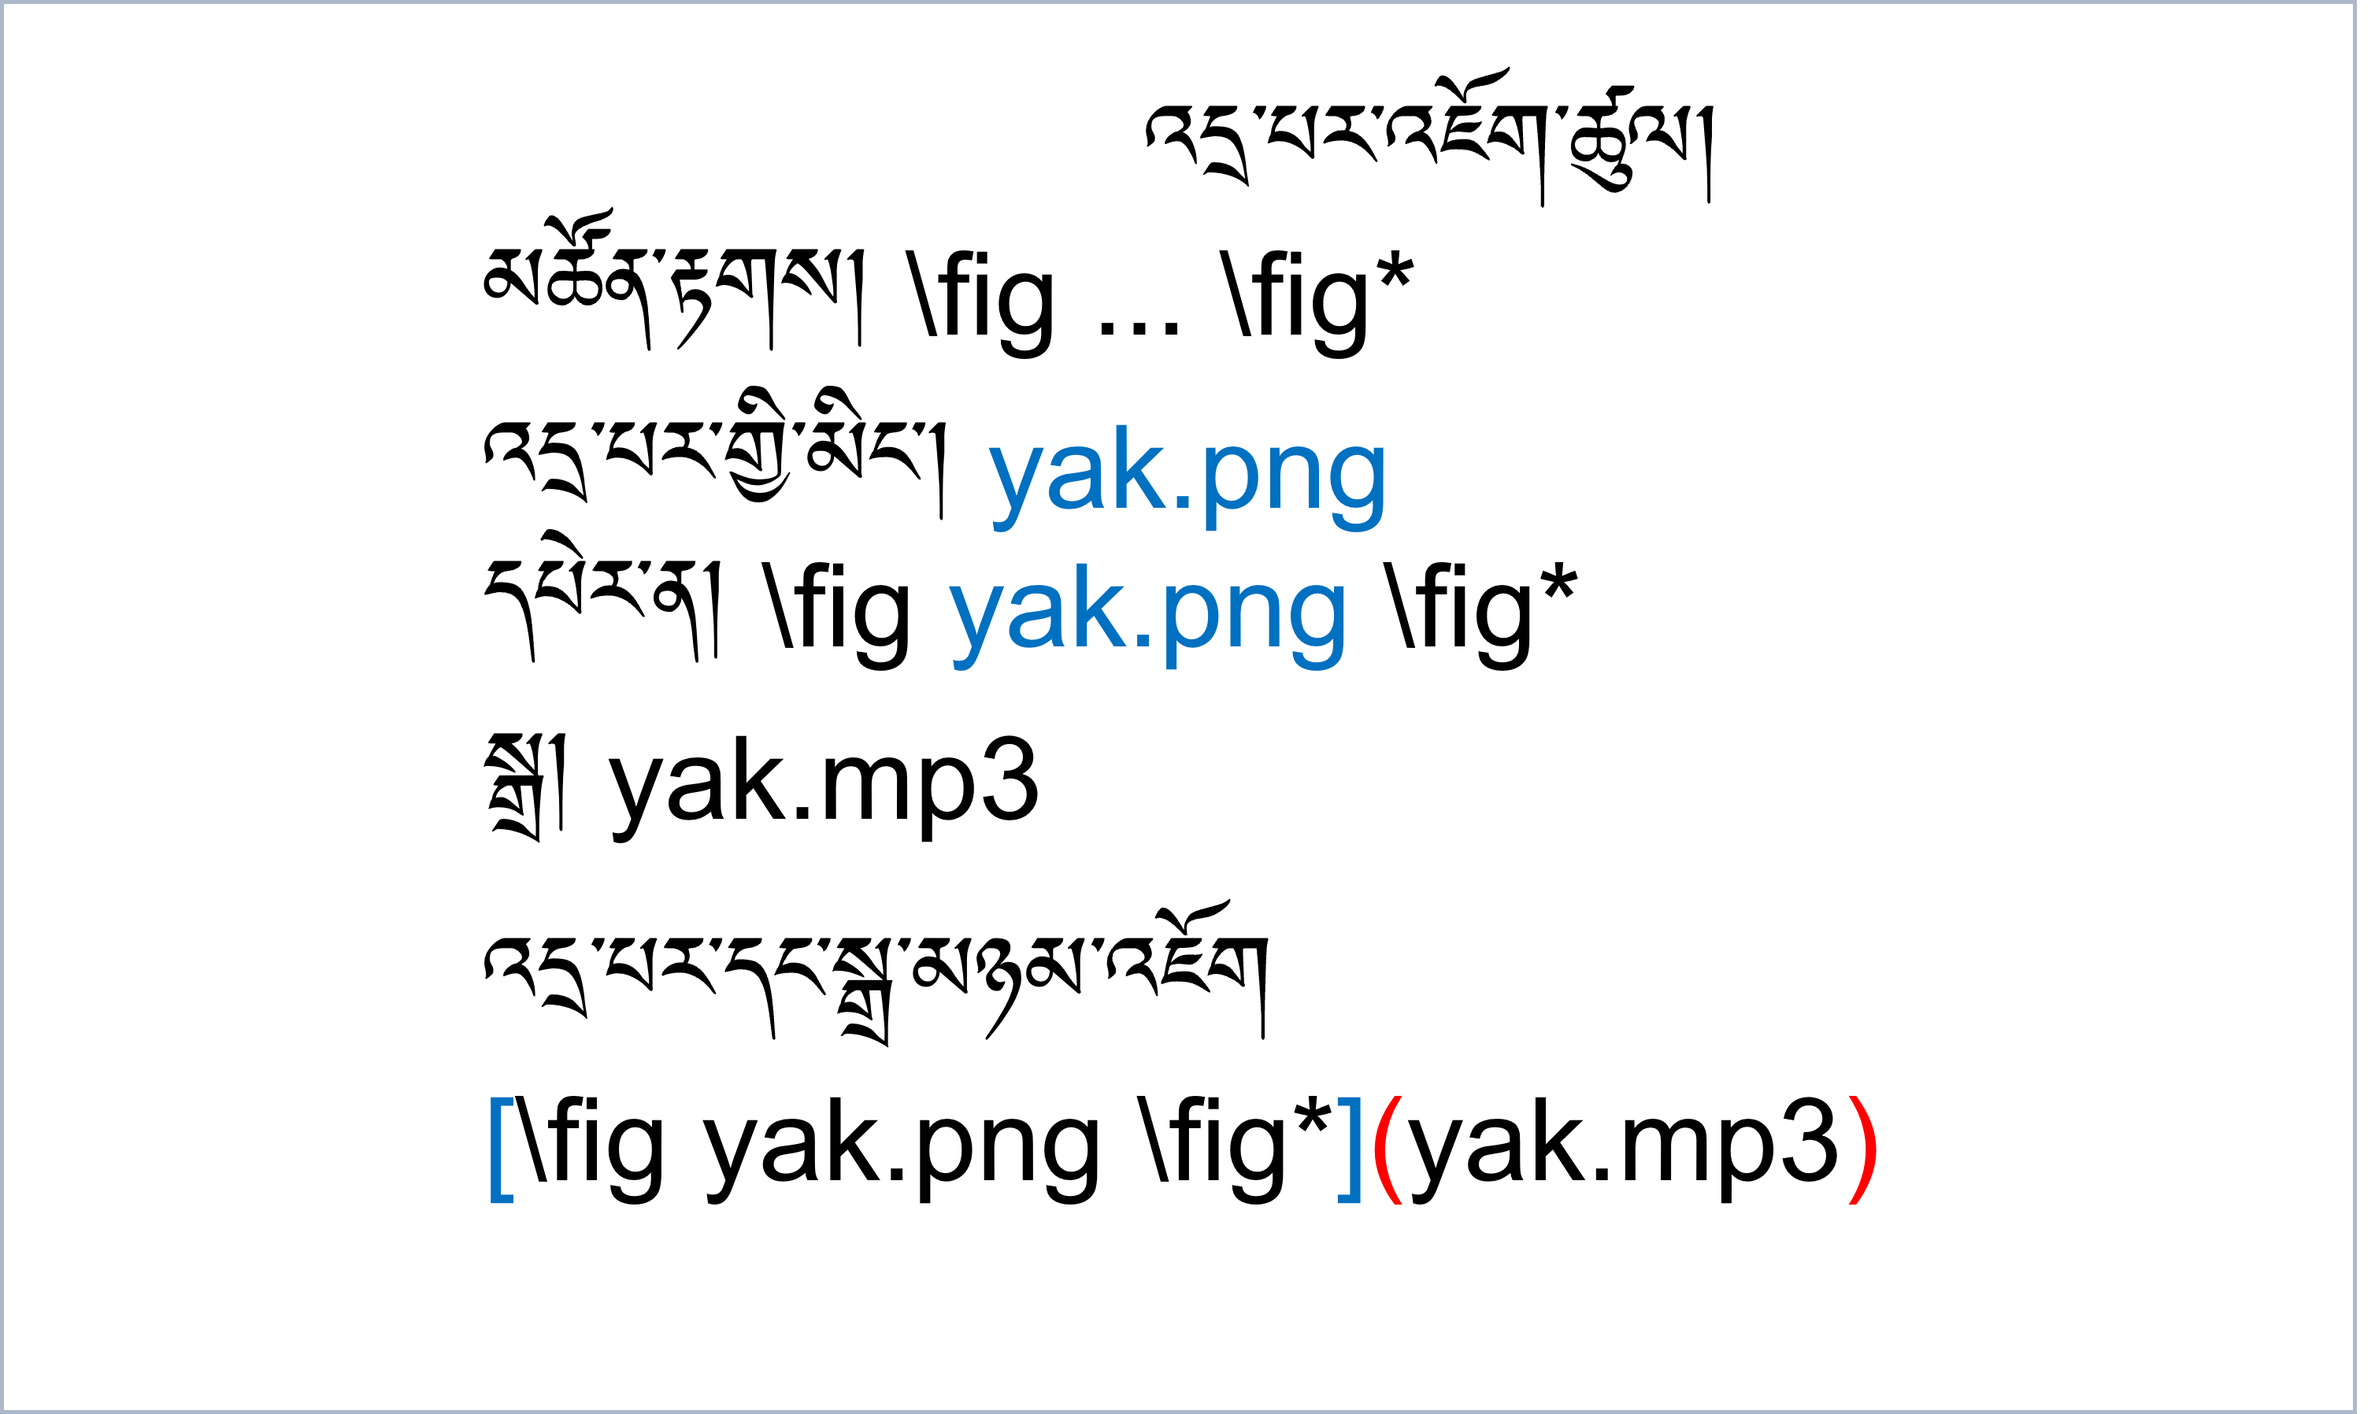
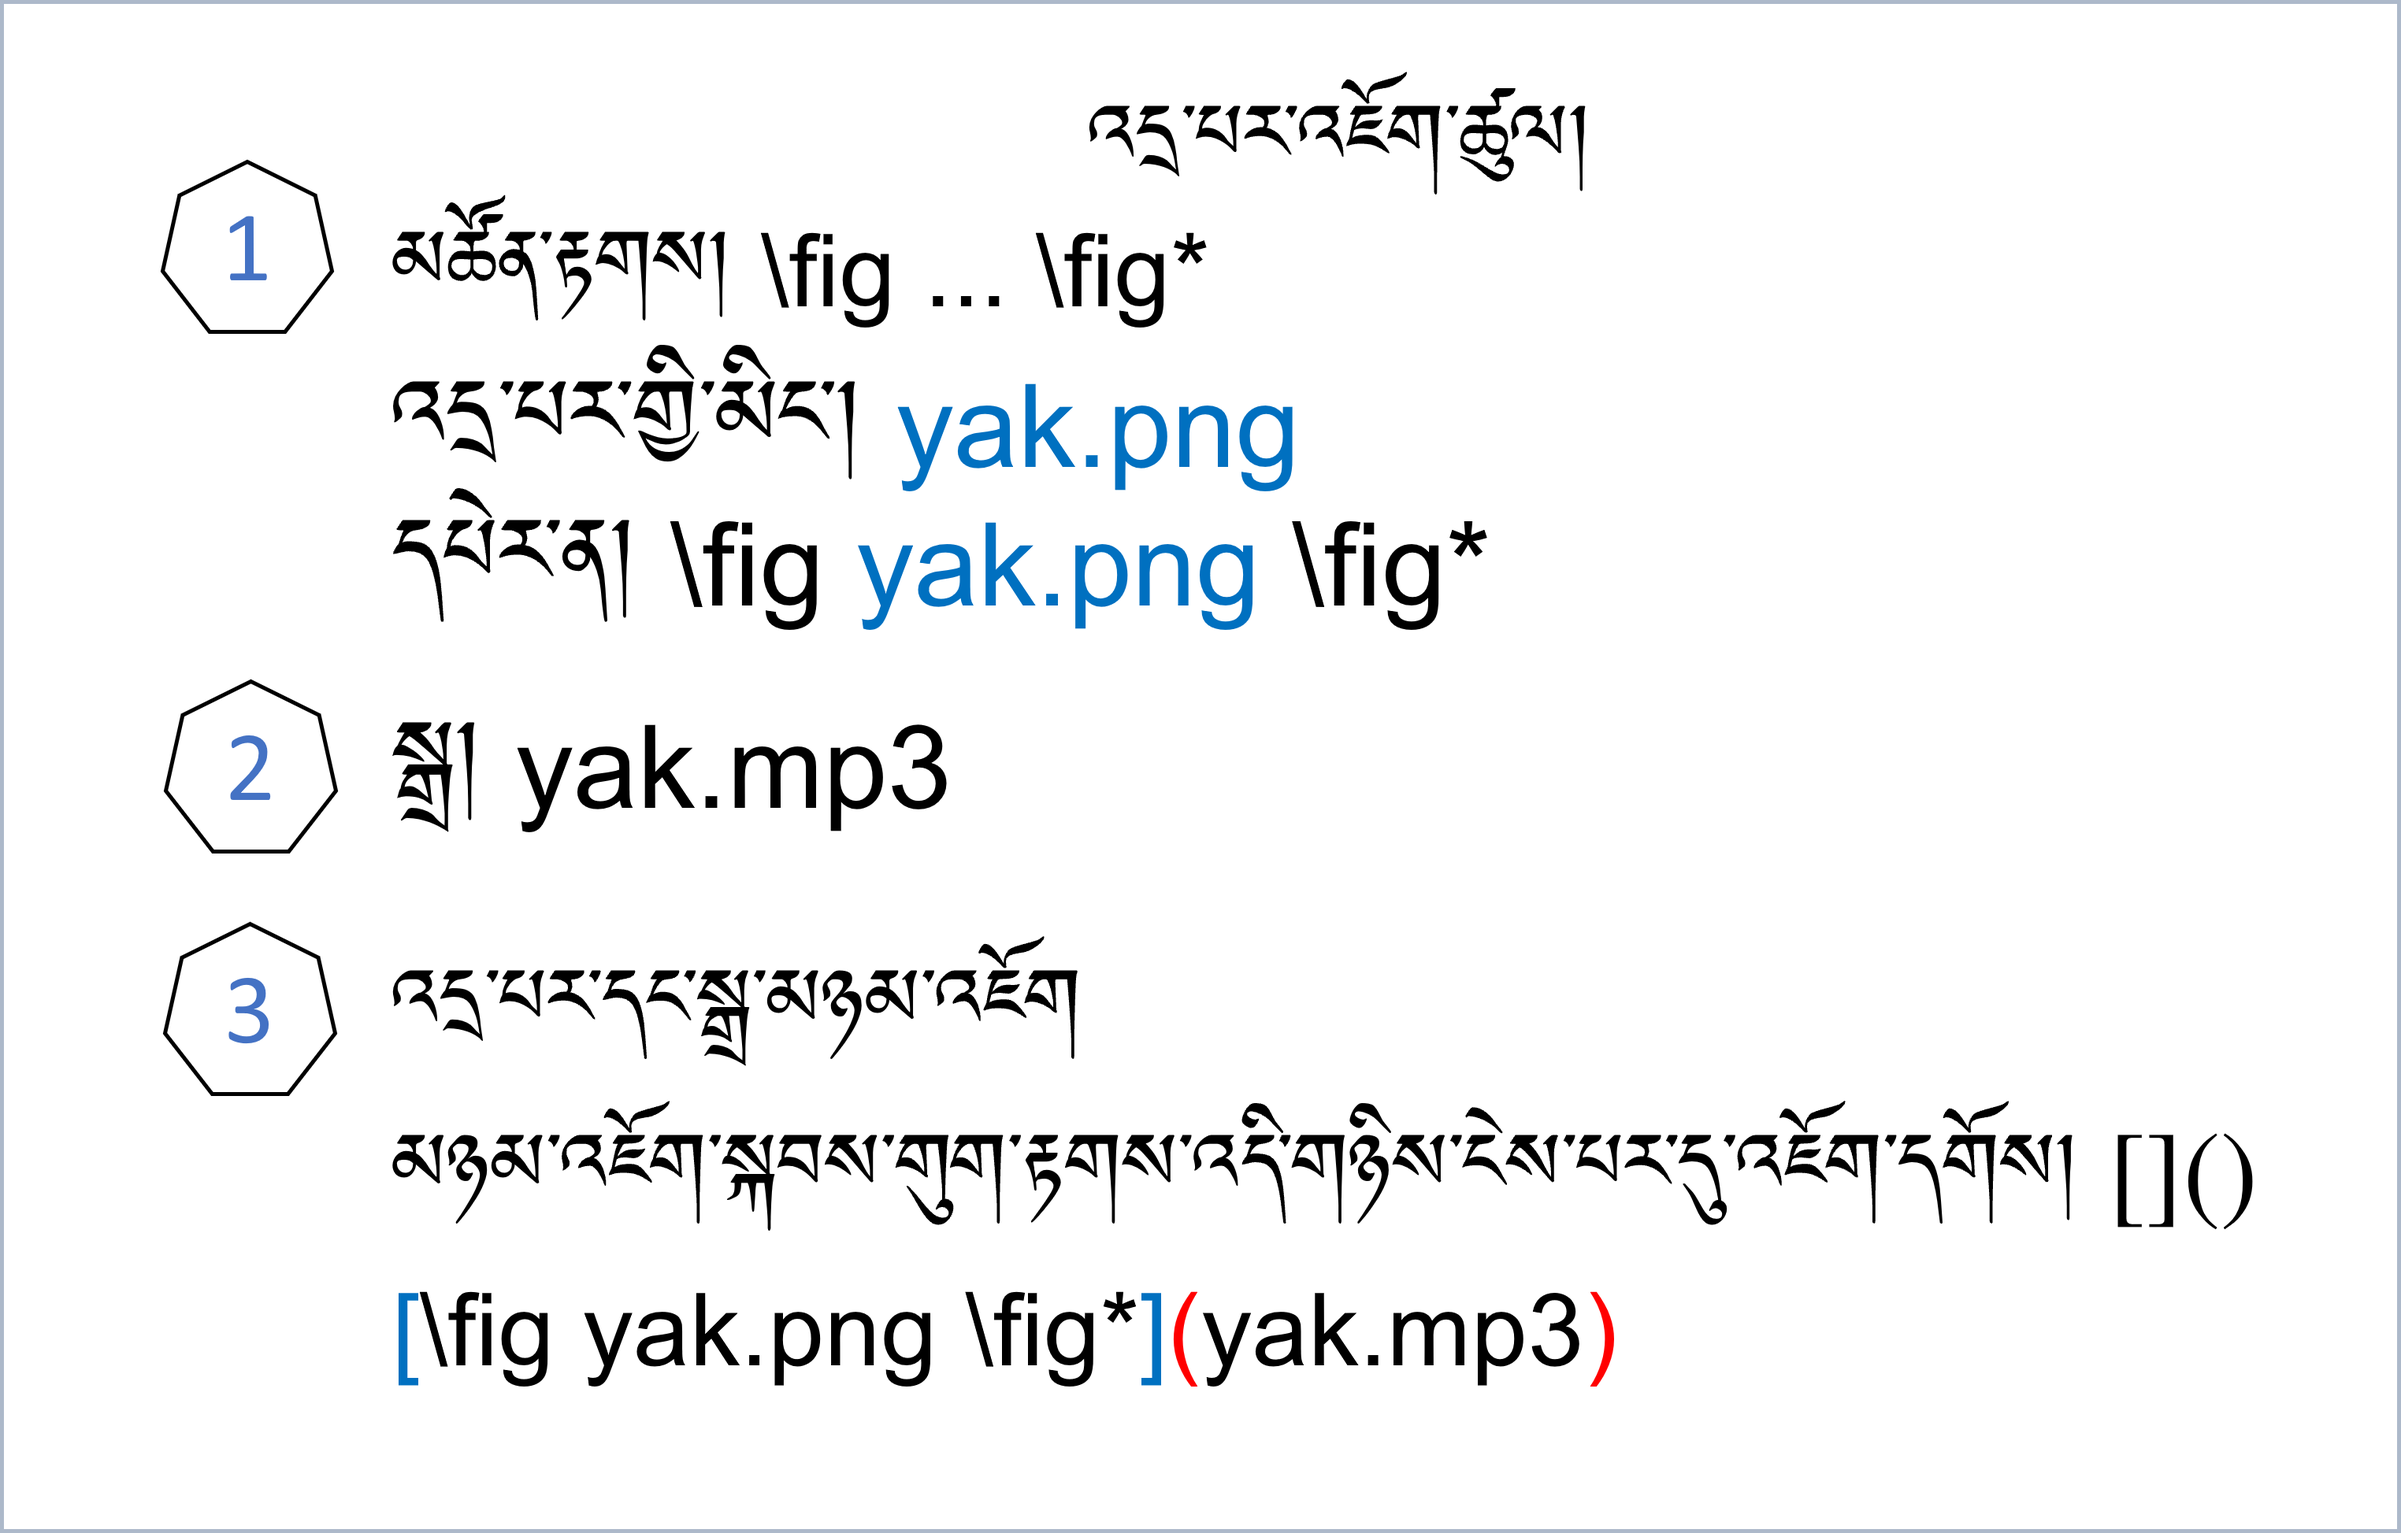
RAB08 Done

diff --git a/howtoguides/RAB08/index.md b/howtoguides/RAB08/index.md
@@ -2,7 +2,7 @@
 
 འདིར་RABདཔེ་ཀློག་མཉེན་ཆས་སྒྲིག་སྟེགས་ནང་སེམས་ཅན་གྱི་སྐད་དང་འདྲ་པར་མཉམ་སྒྲིག་གིས་ཕན་ཚུན་ངོས་འཛིན་ཚུལ་གྱི་བྱིས་སྒྲུང་མཉེན་ཆས་སྒྲིག་ཚུལ་ངོ་སྤྲོད་བྱས་ཡོད། ཞིབ་ཕྲ་གཤམ་ལ་གཟིགས།
 
-## མཉེན་ཆས་འདི་འགྲུབ་བྱེད་ཀྱི་སློབ་ཚན།
+## མཉེན་ཆས་འདིའི་སློབ་ཚན་སྟོད་སྨད་གཉིས།
 
 མཉེན་ཆས་འདི་ཆ་ཚང་བ་ཞིག་སྒྲིག་བཟོ་བྱེད་པར་རྩ་བའི་སློབ་ཚན་འདིའི་སྟོད་སྨད་གཉིས་ལ་ངེས་ཆ་དང་བྱང་ཆ་གཉིས་ཀ་ལྡན་དགོས།
 1. [སློབ་ཚན་སྟོད་ཆ།](https://github.com/buda-base/budax/blob/master/howtoguides/RAB07/index.md)
@@ -14,32 +14,32 @@
 
 - 👉 སྒྲུང་རྩོམ་སྒྲིག་དང་མཚོན་རྟགས་འཇོག་ཚུལ་ངོ་སྤྲོད།
 - 👉 སྒྲིག་སྟེགས་ནང་དངོས་སུ་སྒྲིག་ཚུལ་ངོ་སྤྲོད།
-- 👉 དཔེ་ཆགཞན་དང་དཀར་ཆག་འདྲ་པར་འཇོག་ཚུལ་ངོ་སྤྲོད།
+- 👉 དཔེ་ཆ་གཞན་དང་དཀར་ཆག་འདྲ་པར་འཇོག་ཚུལ་ངོ་སྤྲོད།
 
 ## ཚོད་ལྟའི་དྲི་བ།
 
 ཚོད་ལྟའི་དྲི་བ་རྣམས་ལ་ལན་རེ་ངེས་པར་དུ་འདེམ་རོགས། དེ་དག་ཐོག་མ་ནས་ཤེས་དགོས་པའི་ངེས་པ་མེད་པས་གང་རུང་ཞིག་འདེམ་ཆོག
 
-1. ༽ (正确回答)
-2. ༽ (正确回答)
-3. ༽ (正确回答)
+1. སྒྲ་དང་འདྲ་པར་མཉམ་འཇོག་སྐབས་མཚོན་རྟགས་གང་འཇོག་དགོས་སམ། ;'༽ :"༽ []()༽ (正确回答)
+2. སྒྲ་ཐུང་རིགས་འཇོག་སའི་ཚན་པ་གང་ཡིན་ནམ། Audio Files༽ Audio Settings༽ Audio Clips༽ (正确回答)
+3. དཀར་ཆག་གི་འདྲ་པར་འཇོག་སའི་ཚན་པ་གང་ཡིན་ནམ། Navigation Drawer༽ Illustartions༽ Add Item༽ (正确回答)
 
 ## 1. སྒྲུང་རྩོམ་སྒྲིག་དང་མཚོན་རྟགས་འཇོག་ཚུལ་ངོ་སྤྲོད།
 
-👇 དེ་ཅི་ལྟར་བྱ་ཚུལ་ལ་གཟིགས།
 
 མཚོན་རྟགས་དང་དེ་དག་འཇོག་ཚུལ།
 
 ![800](images/000000.png)
 
+👇 དེ་ཅི་ལྟར་བྱ་ཚུལ་ལ་གཟིགས།
 
 ![800](images/000001.png)
 
 
-- སློབ་ཚན་གྱི་བརྙན། [དྲ་ཐག་འདིར་སྣུན།]()
+- སློབ་ཚན་གྱི་བརྙན། [དྲ་ཐག་འདིར་སྣུན།](https://drive.google.com/file/d/1yaxydcrayY1zcrB7rdVCoU-jgH-iMlUD/view?usp=share_link)
 
 
-1. དྲི་བ། 
+1. དྲི་བ། སྒྲ་དང་འདྲ་པར་མཉམ་འཇོག་སྐབས་མཚོན་རྟགས་གང་འཇོག་དགོས་སམ། []()༽ (正确回答) :"༽ ;'༽
 
 ## 2. སྒྲིག་སྟེགས་ནང་དངོས་སུ་སྒྲིག་ཚུལ་ངོ་སྤྲོད།
 
@@ -48,21 +48,21 @@
 ![800](images/000002.png)
 
 
-- སློབ་ཚན་གྱི་བརྙན། [དྲ་ཐག་འདིར་སྣུན།]()
+- སློབ་ཚན་གྱི་བརྙན། [དྲ་ཐག་འདིར་སྣུན།](https://drive.google.com/file/d/15COX5bkAmikfp58GfnnIAUp0iu8ks66n/view?usp=share_link)
 
 
-2. དྲི་བ། 
+2. དྲི་བ། སྒྲ་ཐུང་རིགས་འཇོག་སའི་ཚན་པ་གང་ཡིན་ནམ། Audio Settings༽ Audio Clips༽ (正确回答) Audio Files༽
 
-## 3. དཔེ་ཆགཞན་དང་དཀར་ཆག་འདྲ་པར་འཇོག་ཚུལ་ངོ་སྤྲོད།
+## 3. དཔེ་ཆ་གཞན་དང་དཀར་ཆག་འདྲ་པར་འཇོག་ཚུལ་ངོ་སྤྲོད།
 
 👇 དེ་ཅི་ལྟར་བྱ་ཚུལ་ལ་གཟིགས།
 
 ![800](images/000003.png)
  
 
-- སློབ་ཚན་གྱི་བརྙན། [དྲ་ཐག་འདིར་སྣུན།]()
+- སློབ་ཚན་གྱི་བརྙན། [དྲ་ཐག་འདིར་སྣུན།](https://drive.google.com/file/d/1GVulCPjCbNJFK3G3-i2Zgx9B0A1viTeN/view?usp=share_link)
 
 
-3. དྲི་བ། 
+3. དྲི་བ། དཀར་ཆག་གི་འདྲ་པར་འཇོག་སའི་ཚན་པ་གང་ཡིན་ནམ། Navigation Drawer༽ Illustartions༽ Add Item༽ (正确回答)
 
 - 👉 མདུན་གྱི་དྲ་ཐག་བརྒྱུད་ནས་སློབ་ཚན་འདིའི་སྟོད་ཆ་ལ་གཟིགས།
